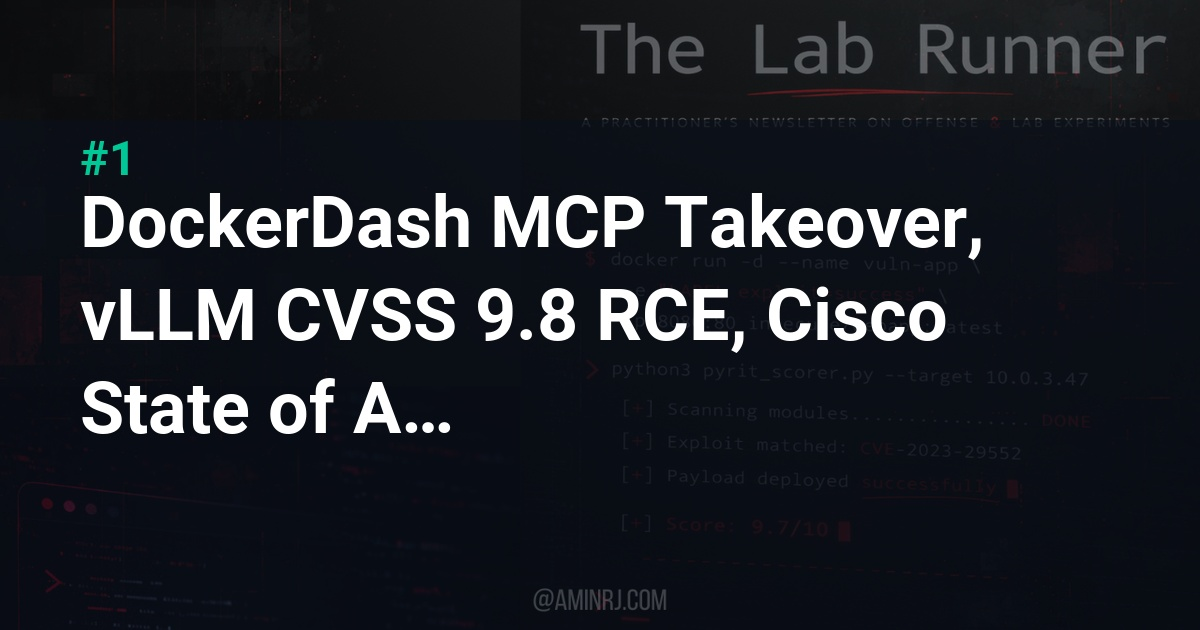
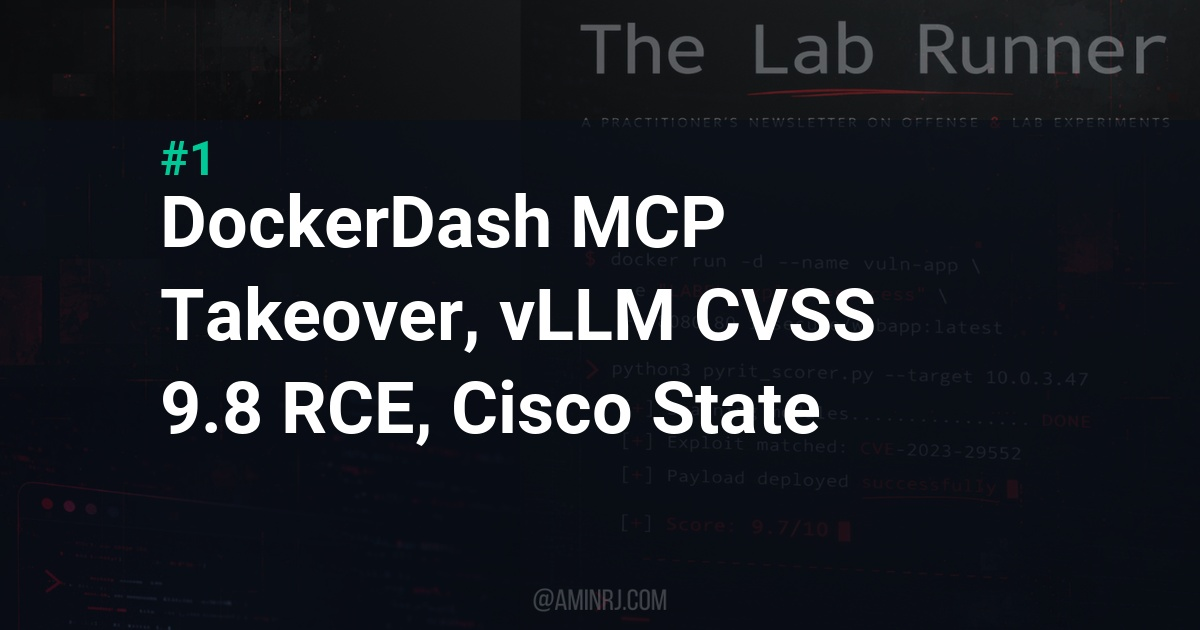
Update the scripts

diff --git a/scripts/generate_newsletter_thumbnail.py b/scripts/generate_newsletter_thumbnail.py
@@ -40,8 +40,9 @@ CANVAS_W, CANVAS_H = 1200, 630
 # ---------------------------------------------------------------------------
 FONT_SIZE    = 72
 MAX_CHARS    = 60
-WRAP_WIDTH   = 24   # characters per line at FONT_SIZE 72
+WRAP_WIDTH   = 22   # characters per line at FONT_SIZE 72
 LINE_SPACING = 1.3  # multiplier on FONT_SIZE
+MAX_LINES    = 2     # max lines for title before truncation (with ellipsis)
 
 # Font search order — drop your own .ttf into scripts/fonts/ and it wins
 FONT_CANDIDATES = [
@@ -70,7 +71,7 @@ OVERLAY_OPACITY = 180                   # 0–255  (~70%)
 # ---------------------------------------------------------------------------
 # Layout
 # ---------------------------------------------------------------------------
-TEXT_X       = 80    # left margin for all text
+TEXT_X       = 160    # left margin for all text
 TEXT_Y       = 180   # vertical start for the title block
 ISSUE_Y      = 130   # vertical position for the "#N" label
 
